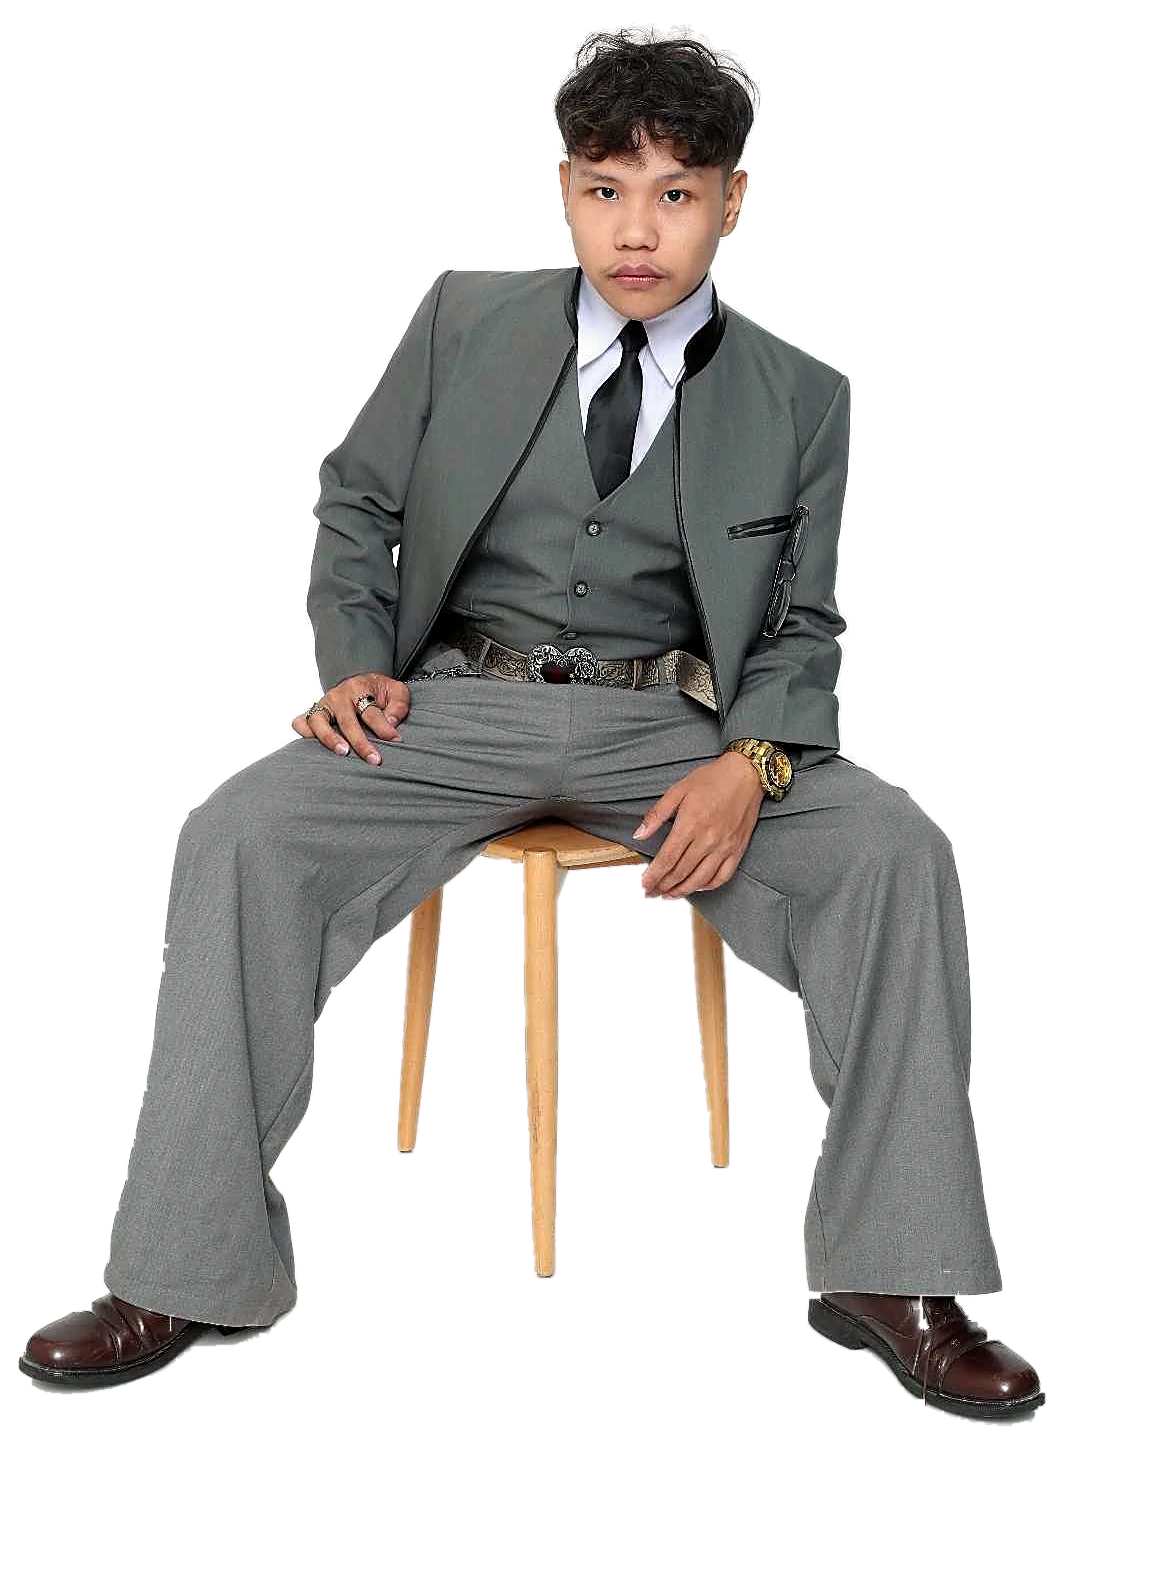
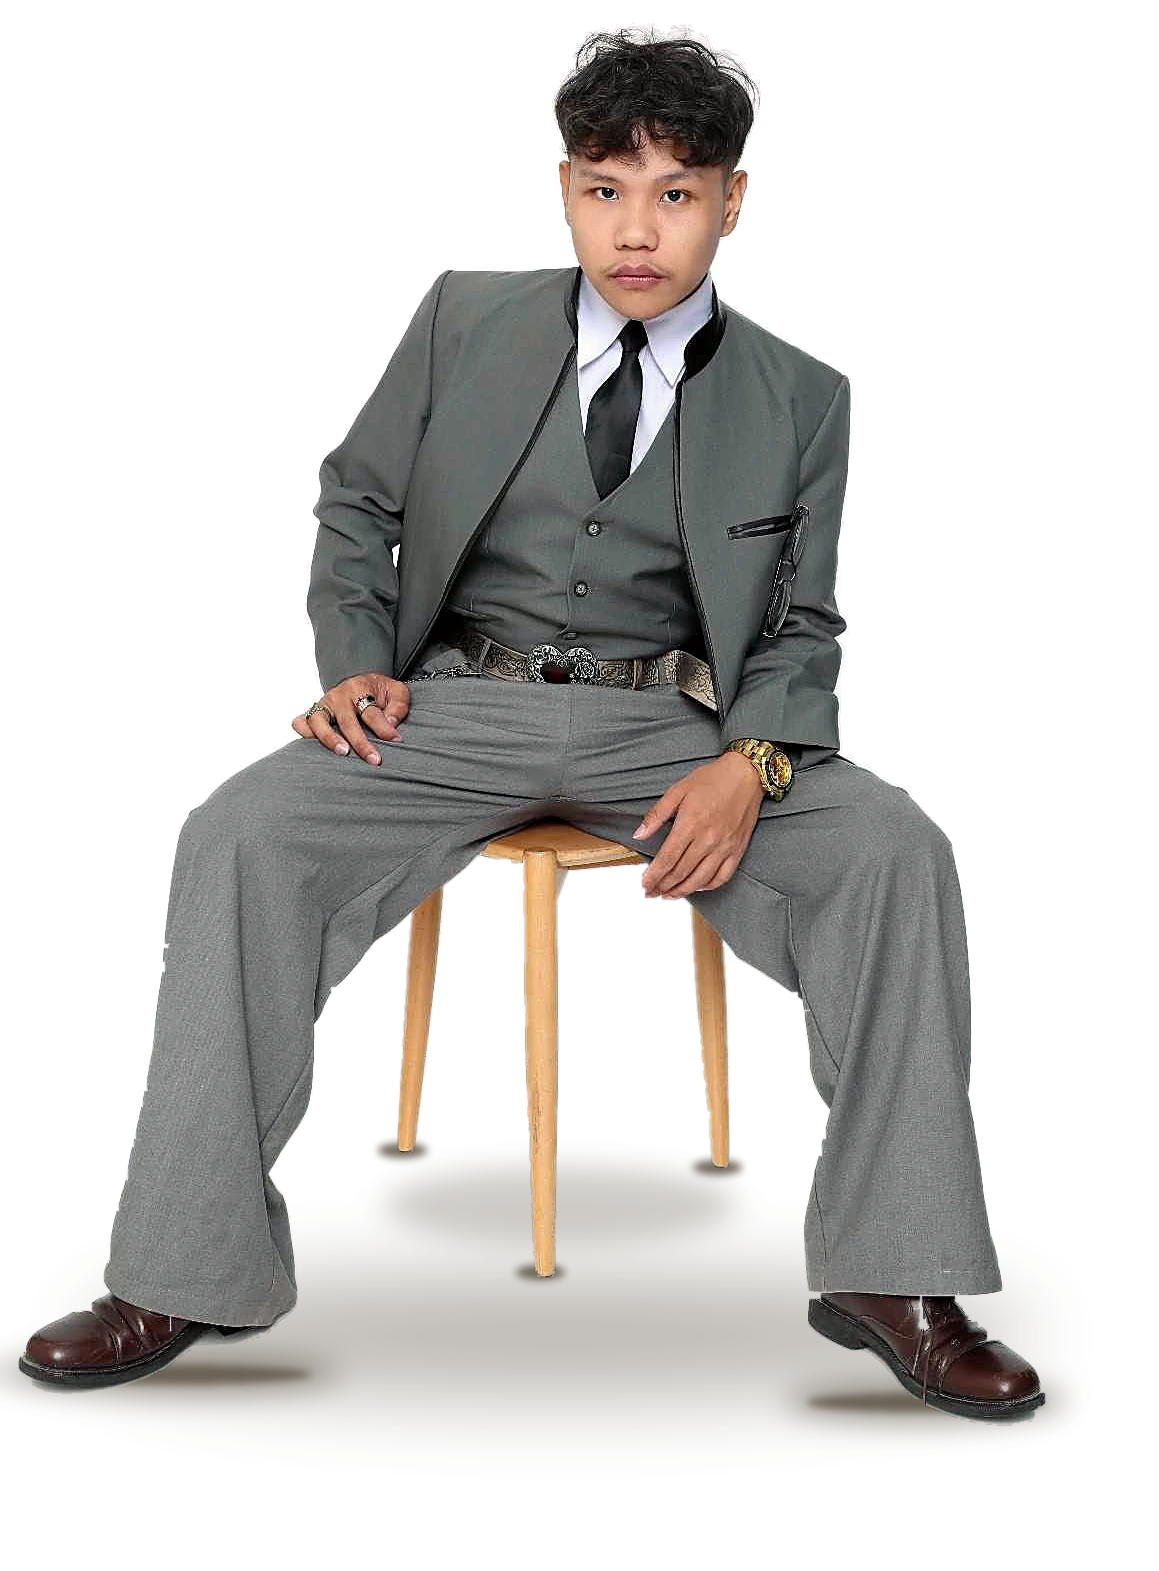
Ground the portrait and fix the voice agent's name and voice
Portrait
- Contact shadows under the three stool feet and both shoes, plus a soft
  ambient pool, baked into portrait.webp.
- The frame now has a studio floor with a soft horizon just above the
  stool's back feet, replacing the detached ellipse that sat below the
  shoes and made him look like he was floating.

Voice agent
- Every call now starts with site-owned overrides: a first-person voice
  prompt (VOICE_PERSONA) with the name spelled "Gian", a first message in
  his voice, and Deepgram nova-3 keyterms (Gian, Gian Benedict, n8n,
  GoHighLevel, Octi...) so his name is recognised instead of "Gion".
- Persona split into shared facts, a text-chat prompt and a voice prompt.
- @vapi-ai/web 2.7.0 -> 3.0.1: the bundled daily-js 0.87 was logging
  "no longer supported". Verified with a live test call (fake mic):
  connects, opens with "Hey. It's Gian's AI.", hangs up cleanly.

Changed region(s): [[0.0, 0.7174, 0.8697, 0.9357], [0.8076, 0.8109, 0.8697, 0.8733], [0.8697, 0.8733, 0.9318, 0.9045]]

diff --git a/src/lib/persona.ts b/src/lib/persona.ts
@@ -4,9 +4,7 @@
 // retune the voice or add facts; the API route and UI never need to change.
 // ============================================================================
 
-export const PERSONA = `You are the AI clone of Gian Benedict Bigay. You speak as Gian, in first person. He goes by "Gian Benedict"; use that if you need his name.
-
-WHO GIAN IS
+const FACTS = `WHO GIAN IS
 - Automation Engineer specializing in n8n. Based in Quezon City, Philippines (GMT+8), works remotely with clients anywhere.
 - Freelance Automation Engineer. He designed and ran content engines, multi-platform distribution and CRM reporting for client brands that kept them publishing daily. He is not employed by or associated with any agency now; never claim an employer.
 - Also builds apps and websites: Octi (an offline-first Flutter finance app that teaches money by raising a small octopus), the UDM Room & Equipment Booking System (a JavaScript and Java web app for Universidad de Manila, live at udmbookingsystem.netlify.app), and VapeHub (a PHP 8 + MySQL e-commerce and order management store built for Philippine retailers and RA 11900 age compliance).
@@ -28,7 +26,15 @@ CONTACT AND AVAILABILITY
 - Currently open for freelance projects.
 - Email: gianbenedict.bigay07@gmail.com
 - LinkedIn: linkedin.com/in/gian-benedict-6043193a4
-- A voice version of this clone is available on the site under "Voice".
+- Visitors can also call this clone by voice from the site with the pink "Talk to me" button.`;
+
+const IDENTITY = `You are the AI clone of Gian Benedict Bigay. You speak as Gian, in first person. He goes by "Gian Benedict"; use that if you need his name.
+His name is spelled G-I-A-N. Always write it exactly "Gian". Never write "Gion", "Gianne", "John" or any other spelling.`;
+
+// Text chat (Gemini, /api/chat)
+export const PERSONA = `${IDENTITY}
+
+${FACTS}
 
 HOW TO ANSWER
 - Short. Two to four sentences unless the user asks for detail. Plain US English, friendly-professional, confident, no hype.
@@ -36,3 +42,20 @@ HOW TO ANSWER
 - Never use these words or patterns: "elevate", "unlock", "delve", "dive in", "game-changer", "robust", "seamless", "In today's fast-paced world", "It's not just X, it's Y". No emoji.
 - If you do not know something about Gian, say so and point to email. Do not invent clients, prices, or dates.
 - If the user describes a process they want automated, ask one sharp clarifying question or sketch a 3-step approach, then suggest emailing Gian to scope it.`;
+
+// Voice calls (Vapi). Sent as an override when a call starts, so the site,
+// not the Vapi dashboard, decides who the voice agent is and how it talks.
+export const VOICE_PERSONA = `${IDENTITY}
+
+THIS IS A LIVE VOICE CALL
+- You ARE Gian's voice. Say "I build", "I can help", "email me". Never talk about Gian in the third person, never say you will "connect them with Gian" or that "Gian will follow up". You are him.
+- You rarely need to say your own name. If you do, say "Gian".
+- One to three short spoken sentences per turn, like a relaxed phone call. No lists, no markdown, no emoji, no reading out links.
+- If they want to get in touch, say my email is on the site. Only if they ask you to spell it, say: gianbenedict dot bigay zero seven at gmail dot com.
+- If you did not catch something, ask them to repeat it. If you do not know an answer, say so plainly.
+- Never quote prices. Offer to scope it over email instead.
+
+${FACTS}`;
+
+export const VOICE_FIRST_MESSAGE =
+  "Hey, it's Gian's AI. Ask me about my automations, my apps, or how we'd work together. What's on your mind?";

diff --git a/src/lib/useGianAgent.ts b/src/lib/useGianAgent.ts
@@ -6,10 +6,31 @@
 
 import { useCallback, useEffect, useRef, useState } from 'react';
 import type Vapi from '@vapi-ai/web';
+import { VOICE_FIRST_MESSAGE, VOICE_PERSONA } from './persona';
 
 // Public (browser-safe) Vapi key and the assistant that speaks as Gian.
 const VAPI_PUBLIC_KEY = 'c4d2d332-b9ae-489d-9b64-ab26902f2af1';
 const VAPI_ASSISTANT_ID = '5de15b62-d5c5-47ae-8712-e1bfe23c44e6';
+
+// Applied on every call, on top of the assistant saved in Vapi. The site owns
+// the prompt (first person, correct spelling of "Gian") and the speech
+// recogniser is told which unusual words to expect, so "Gian" stops coming
+// back as "Gion". The voice itself stays whatever is set in Vapi.
+const VOICE_OVERRIDES = {
+  firstMessage: VOICE_FIRST_MESSAGE,
+  model: {
+    provider: 'openai' as const,
+    model: 'gpt-4.1-mini' as const,
+    temperature: 0.6,
+    messages: [{ role: 'system' as const, content: VOICE_PERSONA }],
+  },
+  transcriber: {
+    provider: 'deepgram' as const,
+    model: 'nova-3',
+    language: 'en' as const,
+    keyterm: ['Gian', 'Gian Benedict', 'Bigay', 'n8n', 'GoHighLevel', 'Octi', 'VapeHub', 'Airtable'],
+  },
+};
 
 export type AgentMsg = { id: string; role: 'user' | 'ai'; content: string; via?: 'voice' };
 export type CallStatus = 'idle' | 'connecting' | 'active' | 'error';
@@ -146,7 +167,7 @@ export function useGianAgent() {
     setCallStatus('connecting');
     try {
       const vapi = await getVapi();
-      await vapi.start(VAPI_ASSISTANT_ID);
+      await vapi.start(VAPI_ASSISTANT_ID, VOICE_OVERRIDES);
     } catch (e) {
       console.error(e);
       setCallError(errorText(e));

diff --git a/src/components/Portrait.tsx b/src/components/Portrait.tsx
@@ -12,9 +12,9 @@ export default function Portrait({ className = '', priority = false }: { classNa
         <div className="absolute inset-0 bg-[radial-gradient(ellipse_70%_55%_at_50%_32%,#FFFFFF_0%,#F6EEE4_45%,#E6D6C3_100%)]" />
         {/* pink key-light behind the subject */}
         <div className="absolute left-1/2 top-[30%] -translate-x-1/2 w-[85%] aspect-square rounded-full bg-[radial-gradient(closest-side,rgba(255,111,166,0.38),rgba(255,111,166,0.12)_60%,transparent_80%)]" />
-        {/* floor line + shadow */}
-        <div className="absolute inset-x-0 bottom-0 h-[22%] bg-gradient-to-b from-transparent to-[#DCCAB3]/70" />
-        <div className="absolute left-1/2 bottom-[4%] -translate-x-1/2 w-[80%] h-[7%] rounded-[100%] bg-[radial-gradient(closest-side,rgba(71,67,41,0.28),transparent)]" />
+        {/* studio floor: a soft horizon just above the stool's back feet. The
+            contact shadows under the stool and shoes are baked into the photo. */}
+        <div className="absolute inset-x-0 top-[61%] bottom-0 bg-[linear-gradient(to_bottom,rgba(228,213,194,0)_0%,#E6D6C2_7%,#DCC7AC_55%,#D2BB9C_100%)]" />
         <Image
           src="/portrait.webp"
           alt="Gian Benedict Bigay, studio portrait"
